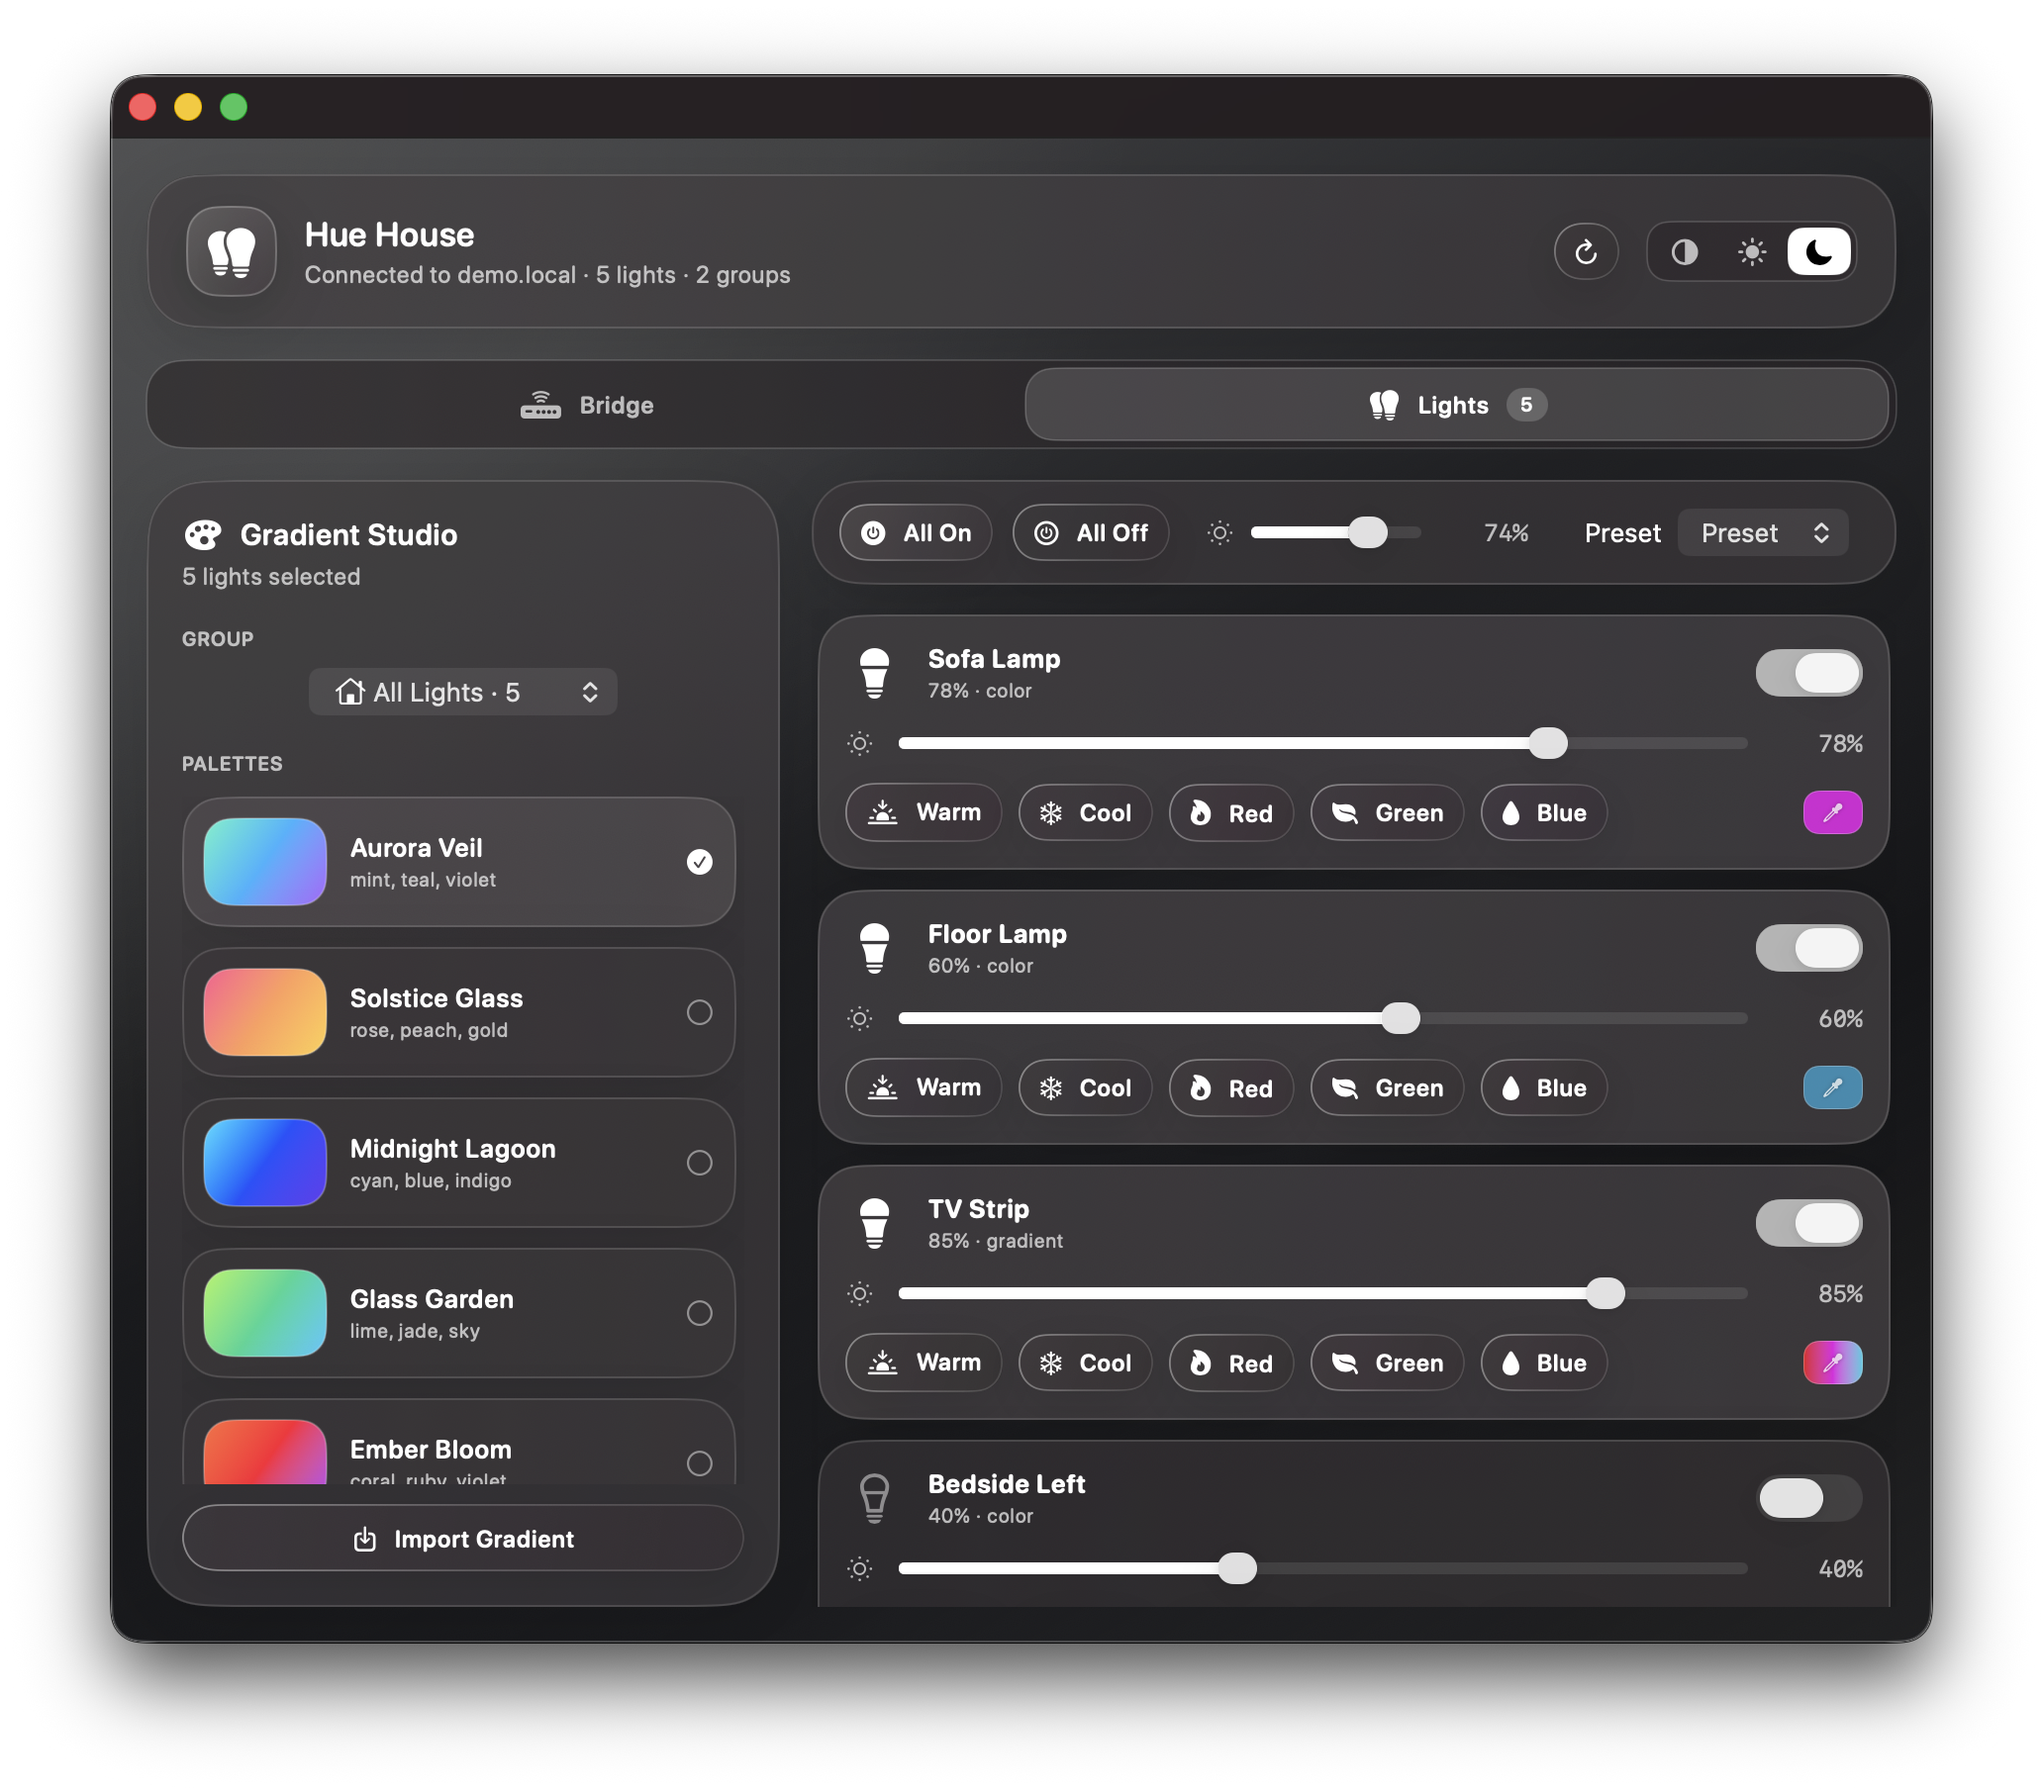
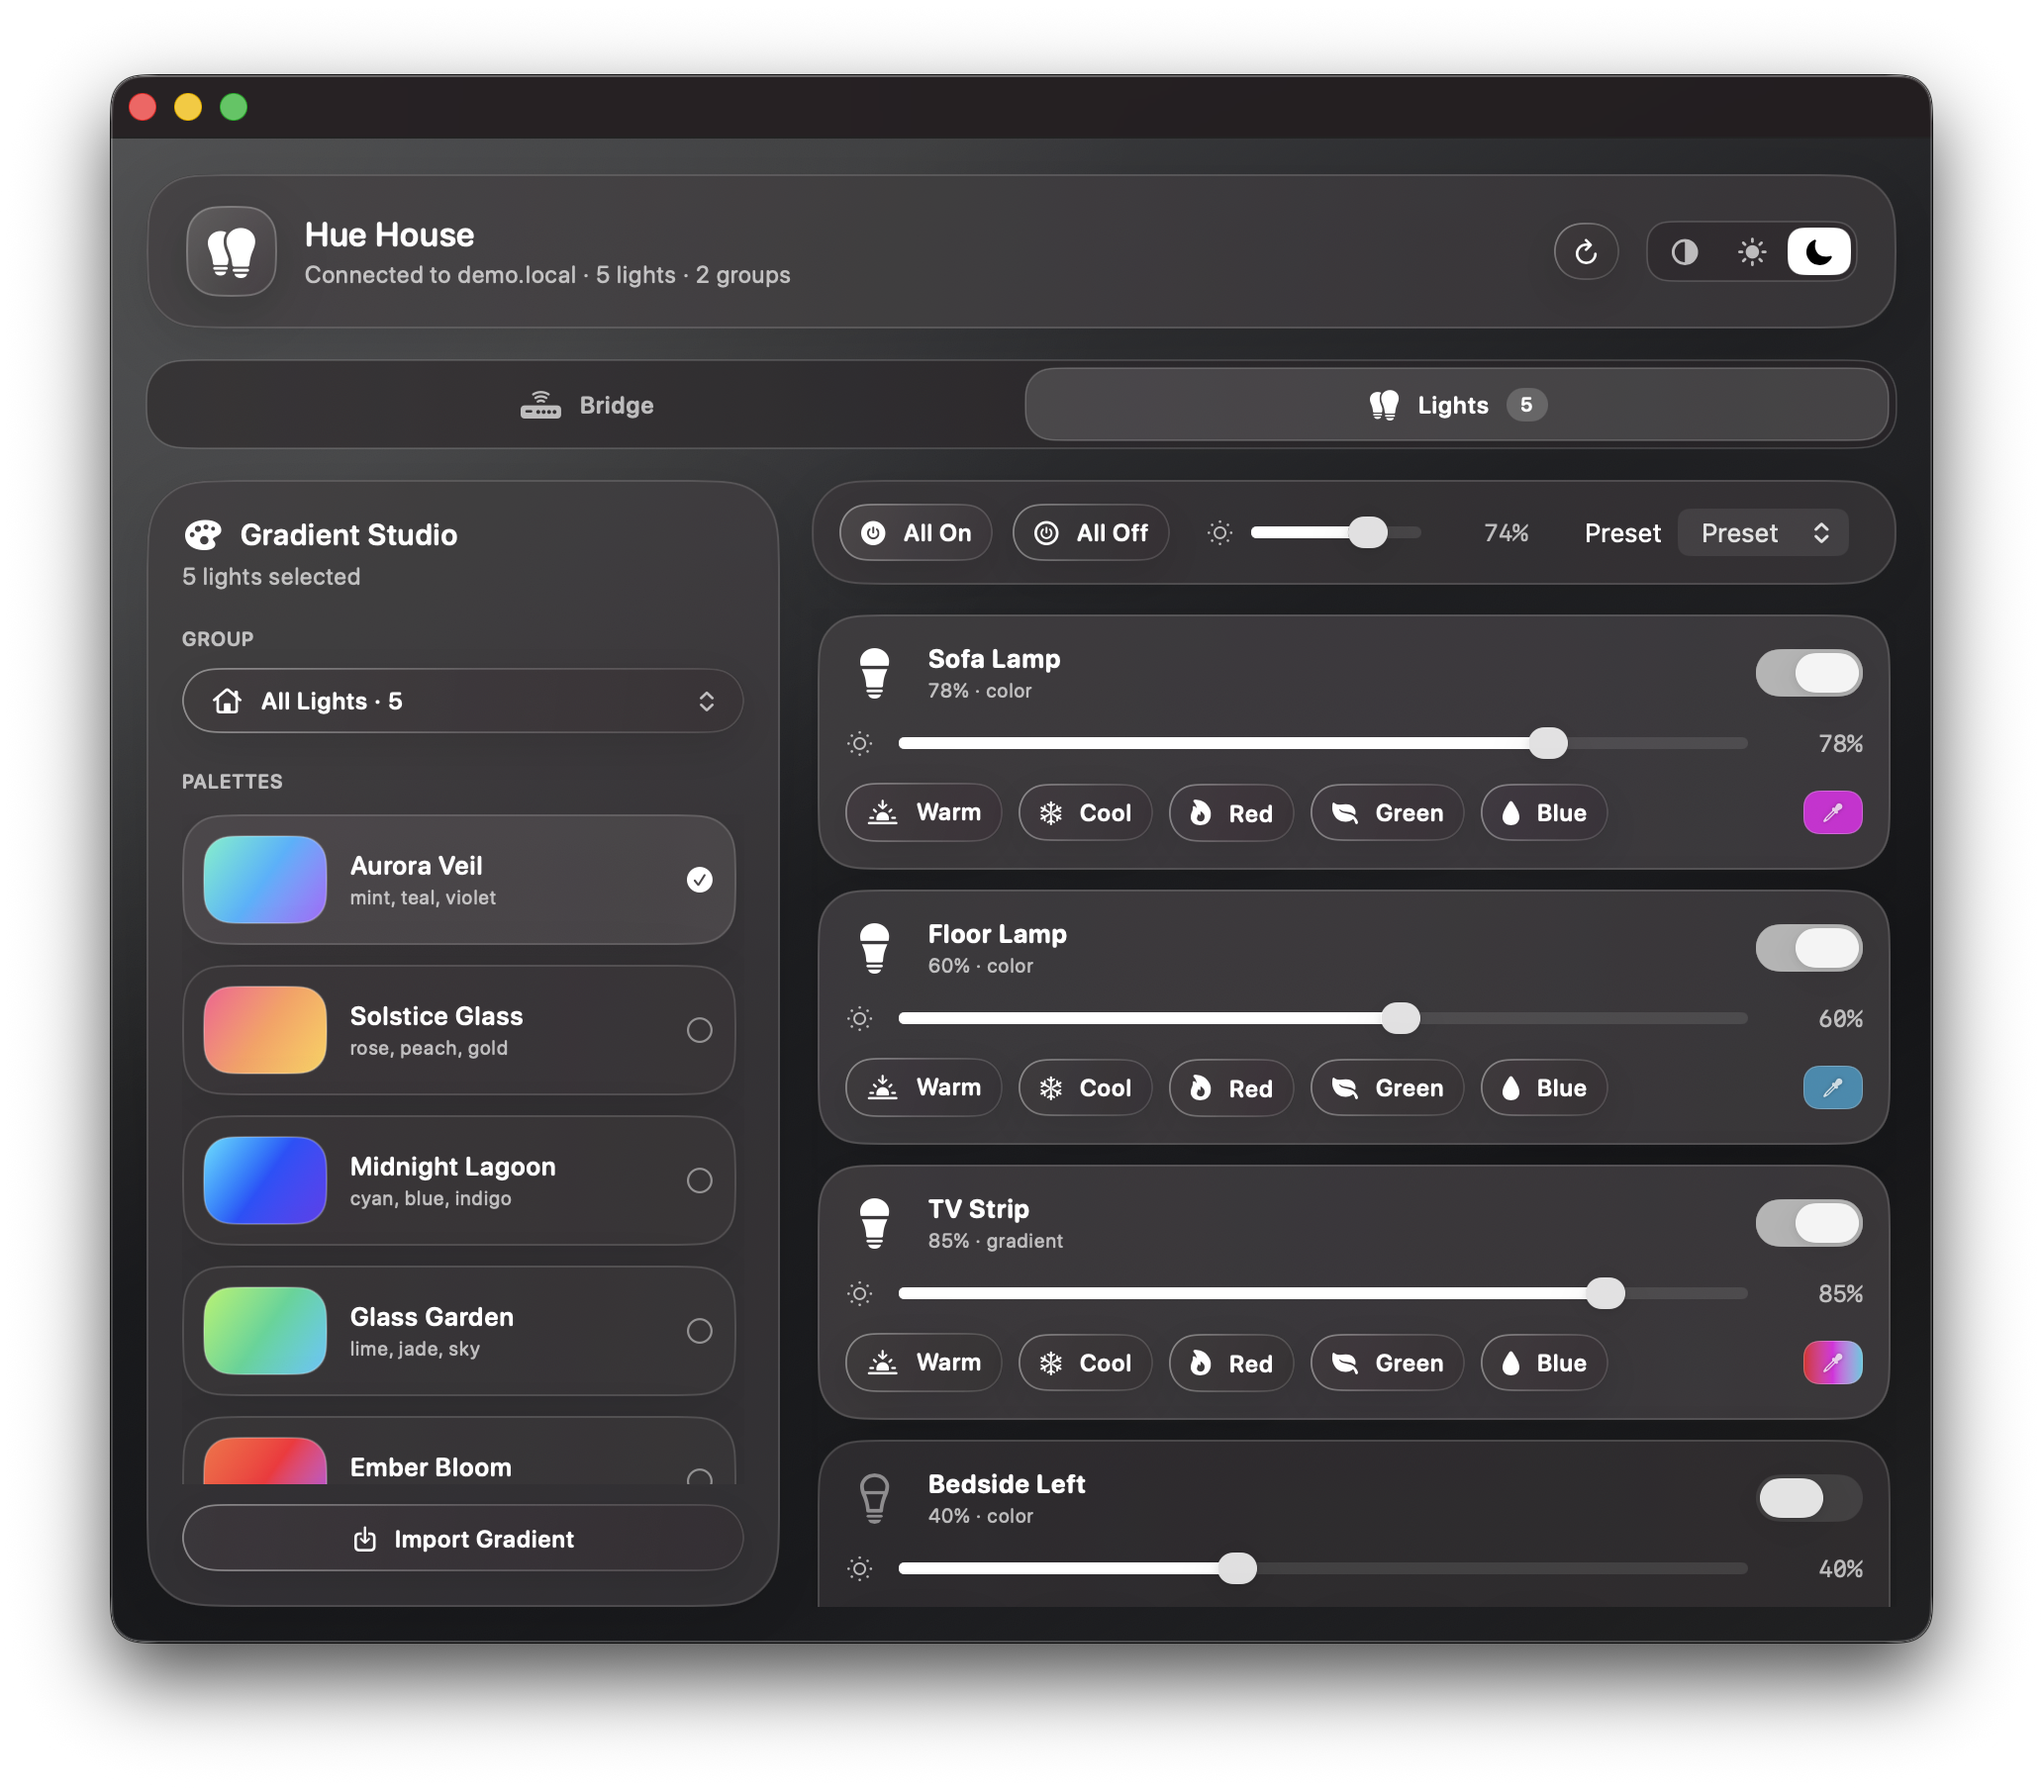
Fix group dropdown not filling panel width in Gradient Studio
A `.menu`-styled `Picker` on macOS sizes to the longest item label and
ignores `.frame(maxWidth: .infinity)`. The regression only became visible
once screenshots ran in demo mode — with just two short group names
("All Lights · 5", "Living Room · 3", "Bedroom · 2") the popup shrank to
content, leaving an obvious gap on either side of the panel column.

Replaced the Picker with a `Menu` whose label is a custom HStack
(label + spacer + chevron). `SiriGlassButtonStyle(fullWidth: true)`
honours the explicit max-width frame on a Menu's trigger button, so the
control now fills the column regardless of how short the group names are.

`docs/hue-house-light-controls.png` re-captured.

Changed region(s): [[0.093, 0.3717, 0.3411, 0.8363], [0.3411, 0.4646, 0.3721, 0.4956]]

diff --git a/Sources/HueHouse/ContentView.swift b/Sources/HueHouse/ContentView.swift
@@ -585,18 +585,35 @@ private struct GradientControlPanel: View {
                 Text("Group")
                     .siriSectionTitle()
 
-                Picker("Group", selection: $store.selectedGroupID) {
+                // A `.menu`-styled Picker on macOS sizes to the longest item
+                // label and ignores `.frame(maxWidth: .infinity)`. With only
+                // a couple of short group names (e.g. demo mode) it shrinks
+                // away from the panel edges. A Menu + custom button label
+                // honors the SiriGlassButtonStyle's full-width frame instead.
+                Menu {
                     ForEach(store.availableGroups) { group in
+                        Button {
+                            store.selectedGroupID = group.id
+                        } label: {
+                            Label(
+                                "\(group.name) · \(store.lightCount(in: group))",
+                                systemImage: group.systemImage
+                            )
+                        }
+                    }
+                } label: {
+                    HStack(spacing: 8) {
                         Label(
-                            "\(group.name) · \(store.lightCount(in: group))",
-                            systemImage: group.systemImage
+                            "\(store.selectedGroup.name) · \(store.lightCount(in: store.selectedGroup))",
+                            systemImage: store.selectedGroup.systemImage
                         )
-                        .tag(group.id)
+                        Spacer(minLength: 0)
+                        Image(systemName: "chevron.up.chevron.down")
+                            .font(.caption.weight(.semibold))
+                            .foregroundStyle(HueTheme.secondaryText(colorScheme))
                     }
                 }
-                .labelsHidden()
-                .pickerStyle(.menu)
-                .frame(maxWidth: .infinity)
+                .menuIndicator(.hidden)
                 .buttonStyle(SiriGlassButtonStyle(tone: .quiet, fullWidth: true))
             }
 
